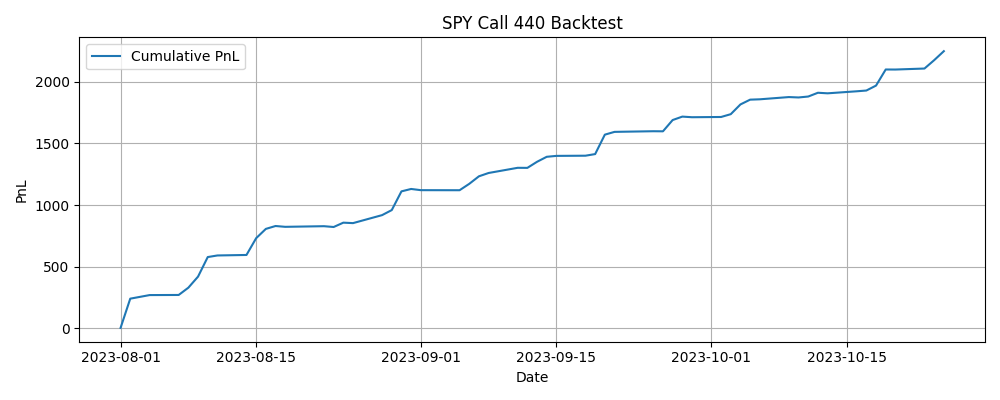
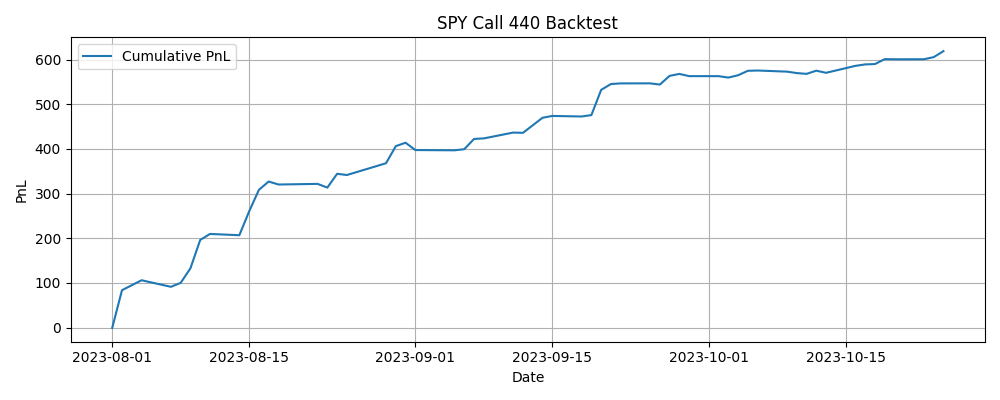
vol fix

diff --git a/src/filling.py b/src/filling.py
@@ -30,14 +30,15 @@ def fill_option_bars_with_mids(df, time_thr=5, vol_col='sigma'):
                 # choose target for the expected price
                 if minutes_to_next <= time_thr:
                     target = nxt.mid # move towards next available price
-                    frac   = 0.5
+                    frac   = 0.33
                 else:
                     target = curr.bs_price # move towards theoretical price (feels like cheating seems like a reasonable way to fill data)
-                    frac   = 0.25 # don't move as far towards
+                    frac   = 0.1 # don't move as far towards
                 centre = mid_curr + frac * (target - mid_curr) # compute expectation of next price
-                # simulate some noise
-                var    = curr[vol_col] ** 2
-                mid_s  = np.round(np.random.normal(centre, np.sqrt(var)), 2)
+                # simulate some noise - assume option price 10x as volatile as underlying
+                minutes_per_year = 252 * 6.5 * 60 # trading minutes
+                price_sd = 10 * mid_curr * curr[vol_col] * np.sqrt(1 / minutes_per_year)
+                mid_s  = np.round(np.random.normal(centre, price_sd), 2)
                 filled.append(
                     pd.Series({
                         'datetime':      ts,
